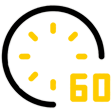
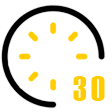
miller planet correction

Changed region(s): [[0.6161, 0.6429, 0.9911, 0.9107]]

diff --git a/scripts/effectsWheel.js b/scripts/effectsWheel.js
@@ -13,7 +13,7 @@
     '{"type": "debuff","name": "Черно-белый","pic": "chernbel.png","description": "на 30 минут у стримера включается черно-белый режим на игре."},'+
     '{"type": "legendary","name": "Легендарный бафф","pic": "sektorCUMgif.gif","description": ""},'+
     '{"type": "debuff","name": "Сэмплы","pic": "sample.png","description": "до конца стрима включаются сэмплы которые могут юзать только сабы. (на одну игру)"},'+
-    '{"type": "debuff","name": "планета Миллер","pic": "plus1hour.png","description": "+1 час к текущей игре"},'+
+    '{"type": "debuff","name": "планета Миллер","pic": "plus1hour.png","description": "+30 минут к текущей игре"},'+
     '{"type": "debuff","name": "Гачи-тайм","pic": "gachitime.png","description": "включается мубот куда сабы закидывают онли гачи треки. (на одну игру). Если под игру не подходит, то реролл"},'+
     '{"type": "buff","name": "Алкострим","pic": "alco.png","description": "стример делает глотки за каждого саба + к этому при определенных условиях в играх, например смерть. (на весь стрим)"},'+
     '{"type": "debuff","name": "Смотровик","pic": "noskip.png","description": "следующие 5 видосов длительностью не более 10 минут на перерыве будут не скипабельными, кроме осуждающего контента и шизы. За скип +10 минут к некст игре от каждого видоса."},'+
